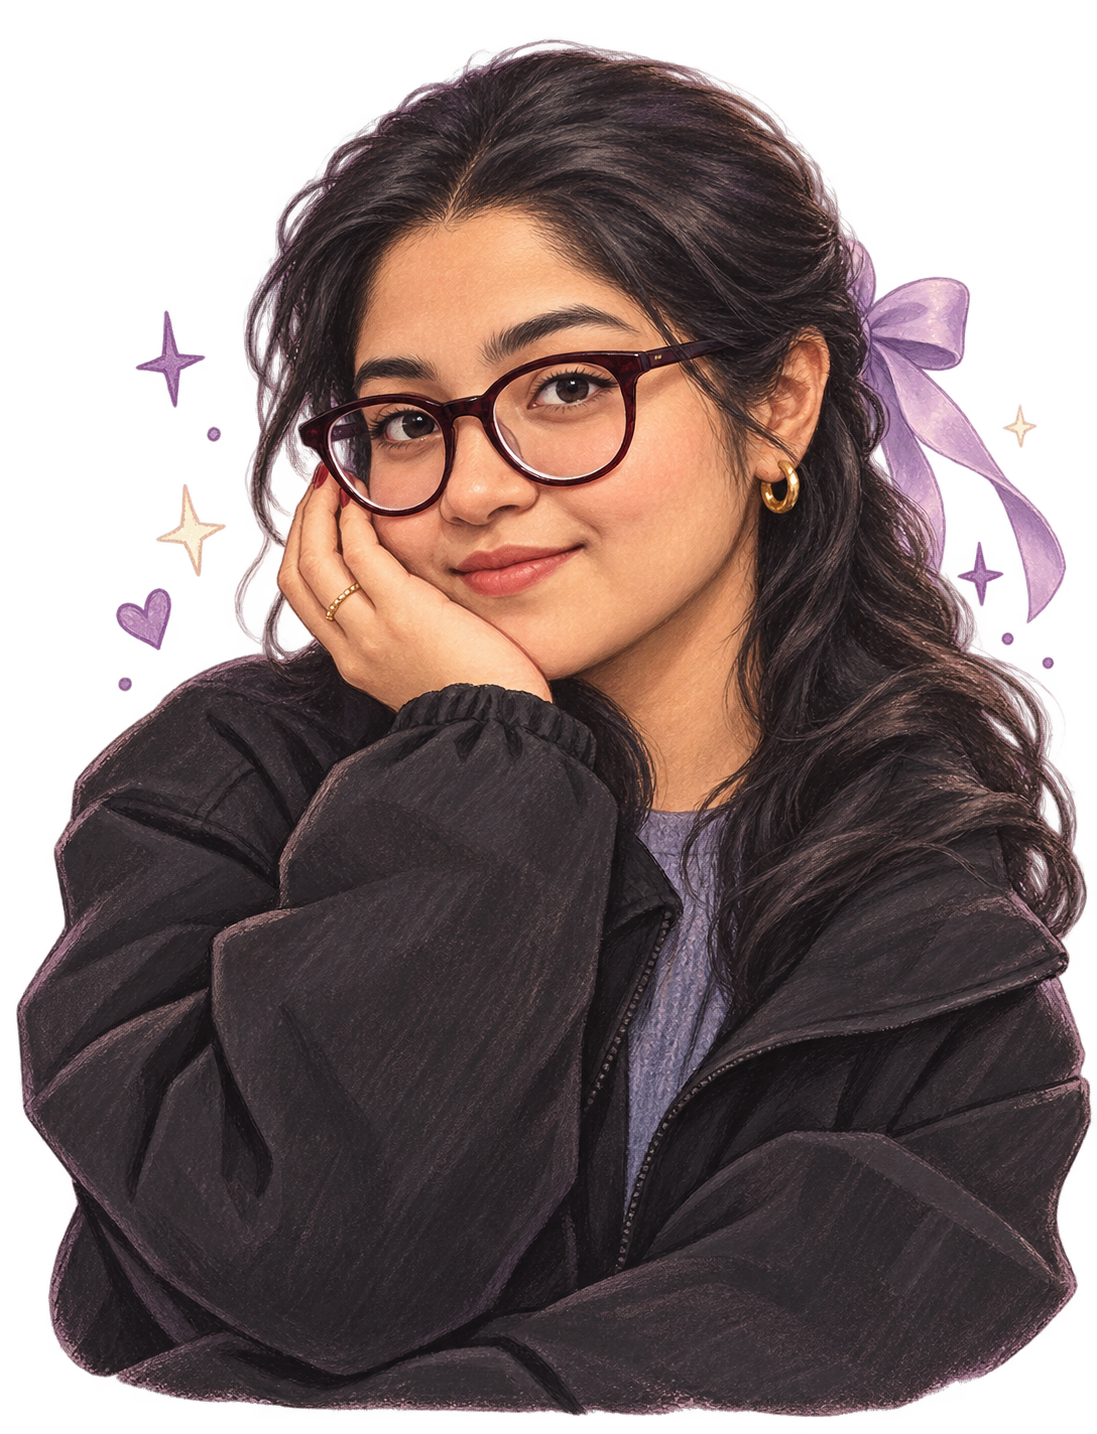
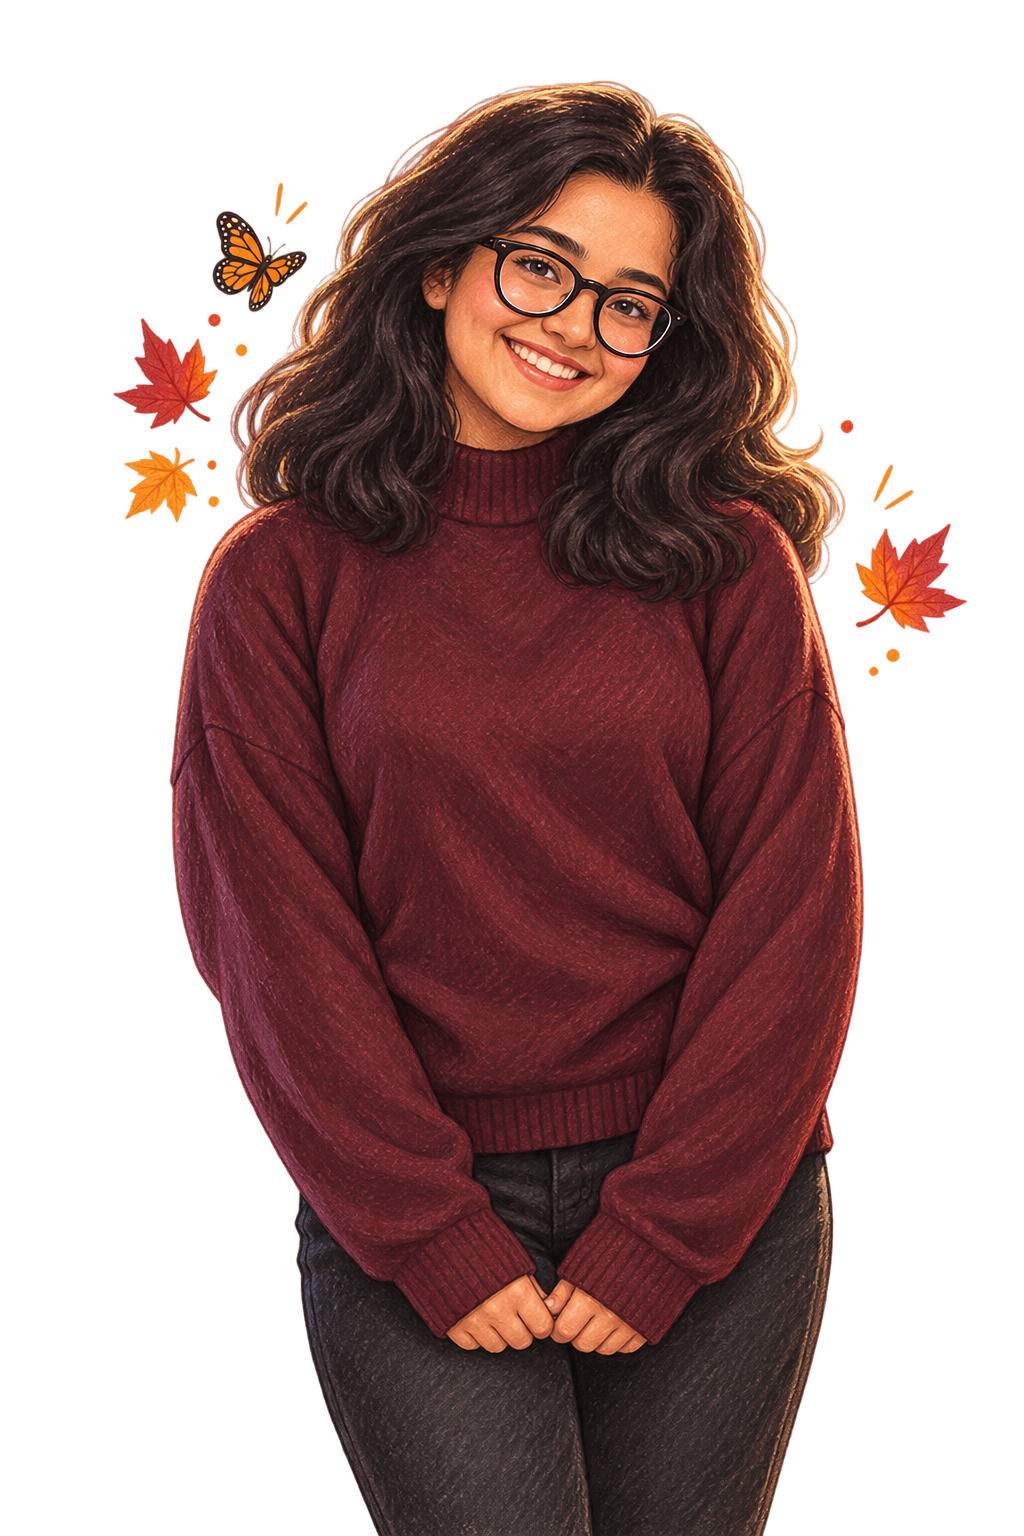
Use matching autumn portrait in birthday hero

diff --git a/index.html b/index.html
@@ -89,9 +89,9 @@
             <div class="portrait-pattern" aria-hidden="true"></div>
             <img
               src="assets/tiha-cartoon.png"
-              alt="A hand-drawn cartoon portrait of Tiha wearing her round glasses and a lavender bow"
-              width="1098"
-              height="1438"
+              alt="A hand-drawn cartoon portrait of Tiha smiling in her burgundy sweater with autumn leaves and a butterfly"
+              width="1024"
+              height="1536"
             />
             <span class="portrait-sparkle sparkle-a" aria-hidden="true">✦</span>
             <span class="portrait-sparkle sparkle-b" aria-hidden="true">✧</span>

diff --git a/styles.css b/styles.css
@@ -575,9 +575,9 @@ main {
 .portrait-frame img {
   position: absolute;
   z-index: 2;
-  right: -2%;
-  bottom: -1%;
-  width: 104%;
+  right: -6%;
+  bottom: -33%;
+  width: 112%;
   height: auto;
   filter: drop-shadow(0 18px 18px rgba(59, 35, 65, 0.18));
 }
